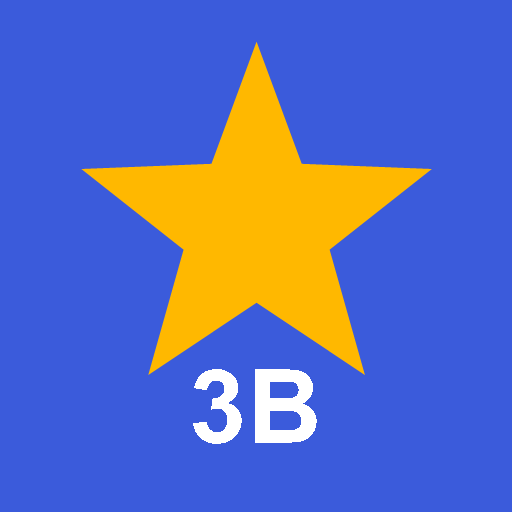
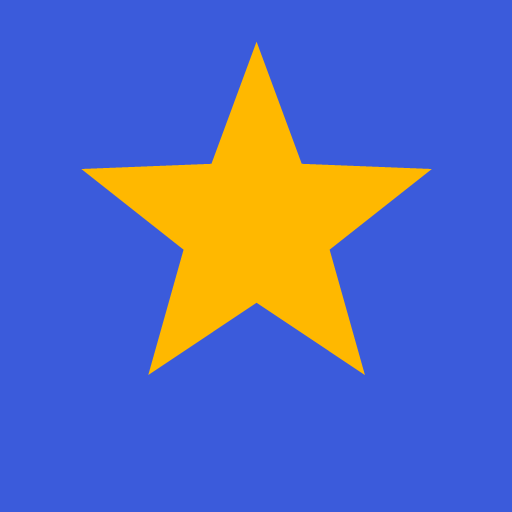
Big Quest Test V 0.148 (Betaversion): Probe-/Onboarding-Abschluss

Changed region(s): [[0.375, 0.7188, 0.625, 0.875]]

diff --git a/index.html b/index.html
@@ -215,6 +215,9 @@ button{font:inherit;color:inherit}
 .about-sec>summary::after,.psec>summary::after{content:"›";font-size:1.4rem;color:var(--muted);transition:transform .15s}
 .about-sec[open]>summary::after,.psec[open]>summary::after{transform:rotate(90deg)}
 .about-sec-body,.psec-body{padding:0 16px 12px}
+.release-group+.release-group{margin-top:12px}
+.release-group h3{margin:0 0 6px;font-size:1rem}
+.release-group ul{margin:0;padding-left:20px}
 .psecs{display:flex;flex-direction:column;gap:8px;margin:14px 0}
 .psheet{border:2px solid var(--line);border-radius:14px;margin:8px 0;background:var(--surface)}
 .psheet>summary{cursor:pointer;min-height:48px;padding:8px 12px;display:flex;flex-wrap:wrap;gap:6px 10px;align-items:center}
@@ -16650,13 +16653,15 @@ const ANM_QR_LESER = QRL_HINWEIS;
 async function anmKindBereit({ ablage, zugang, konto, now }) {
   if (!konto || konto.art !== 'child') return true;
   const k = verbindungen({ ablage, konto, now }).kinder.find((c) => c.id === konto.kennung);
-  if (!k) return false;
+  // After a restart the key copy may already know the child's anchor before the local connection logs are back.
+  const anker = k && k.anker ? k.anker : (konto.anker && konto.anker.role === 'parent' && konto.anker.pub ? konto.anker : null);
+  if (!anker) return false;
   const area = bereichName('kind:lern', konto.kennung);
   let st = null;
   try { st = JSON.parse(ablage.getItem(GERAETEABGLEICH_SPEICHER.staende) || '{}')[area]; } catch (e) { st = null; }
   const log = st && Array.isArray(st.log) ? st.log : [];
   try {
-    const zul = await zulassungAus(log, { area, anker: k.anker, now });
+    const zul = await zulassungAus(log, { area, anker, now });
     const s = await schluesselLesen(zugang, area, { ich: konto.kennung, meineSchluessel: konto.schluessel, mitglieder: aktiveMitglieder(zul) });
     return !!(s.aktuell && s.keys.has(s.aktuell));
   } catch (err) {
@@ -16735,7 +16740,9 @@ function anmPunkteErsetzen(text, ersatz) {
 }
 
 /* Set by the build (werkzeug/version.mjs) inside the encrypted vault; null when opened unbuilt. */
-const APP_VERSION={"n":152,"hash":"3472369","date":"07.11.2026 07:54","draft":false};
+const APP_VERSION={"n":153,"major":0,"minor":148,"patch":0,"kanal":"beta","hash":"0542cd4","date":"08.11.2026 11:43","draft":false};
+/* Set by the build (werkzeug/releases.mjs) inside the encrypted vault; null when opened unbuilt. */
+const APP_RELEASES=[{"version":"V 0.148 (Betaversion)","date":"08.11.2026 11:43","epics":[{"de":"Releasedokumentation ist jetzt direkt im Admin-Bereich der App sichtbar.","en":"Release notes are now visible directly in the admin area of the app."}],"stories":[{"de":"Der Admin sieht pro Fassung eine Übersicht nach Epic, User Story und Bugfix.","en":"The admin sees one overview per version, grouped by epic, user story and bugfix."}],"bugfixes":[{"de":"Fehlende Einträge zeigen einen ruhigen Hinweis statt einer kaputten Ansicht.","en":"Missing entries show a calm note instead of a broken screen."}]}];
 /* Set by the build from werkzeug/konten.json (S3 login); null = no accounts, app runs without login. */
 /* Accounts v2 (S11 Stufe 1): normAccounts and the rules who sees which child are in module src/module/rechte.mjs. */
 /* Stage 3b, task "Anmeldung im Testbau": the storage of the accounts (module konto). Set only for the test build -
@@ -19731,13 +19738,43 @@ function saveMySchoolDlg(){
   const s=$('#savedNote'); s.hidden=false;
   if(savedTimer) clearTimeout(savedTimer); savedTimer=setTimeout(hideSaved,4000);
 }
-/* Version (S7): the child sees only a small "v17" at the end of About; adults see number,
-   build time and commit, and can check on request whether a newer version is published. */
-const versionLabel = () => APP_VERSION ? 'v'+APP_VERSION.n+(APP_VERSION.draft?'-entwurf':'') : 'Entwicklungsstand';
+/* Version (S7): the visible version comes from the maintained release number (beta/final),
+   build time and commit stay as metadata for grown-ups and for live checks. */
+const versionModern=v=>!!v&&Number.isInteger(v.major)&&Number.isInteger(v.minor)&&Number.isInteger(v.patch)&&(v.kanal==='beta'||v.kanal==='final');
+const versionLegacy=v=>!!v&&Number.isInteger(v.n)&&v.n>=1;
+const versionRaw=v=>!v?'':versionModern(v)?`${v.major}.${v.minor}.${v.patch}${v.kanal==='beta'?'-beta':''}`:(versionLegacy(v)?`legacy-${v.n}`:'');
+const versionNumber=v=>versionModern(v)?(v.kanal==='beta'&&v.patch===0?`${v.major}.${v.minor}`:`${v.major}.${v.minor}.${v.patch}`):(versionLegacy(v)?String(v.n):'');
+const versionLabel=(v=APP_VERSION,de=PL()==='de')=>!v?'Entwicklungsstand':versionModern(v)?`V ${versionNumber(v)}${v.kanal==='beta'?(de?' (Betaversion)':' (Beta version)'):''}${v.draft?(de?' - Entwurf':' - draft'):''}`:(versionLegacy(v)?`v${v.n}${v.draft?(de?'-entwurf':'-draft'):''}`:'Entwicklungsstand');
+const versionCompare=(a,b)=>{ if(versionModern(a)&&versionModern(b)){ for(const [x,y] of [[a.major,b.major],[a.minor,b.minor],[a.patch,b.patch],[(a.kanal==='final'?1:0),(b.kanal==='final'?1:0)]]){ if(x<y) return -1; if(x>y) return 1; } return 0; } if(versionLegacy(a)&&versionLegacy(b)){ if(a.n<b.n) return -1; if(a.n>b.n) return 1; return 0; } return null; };
+const versionSameRelease=(a,b)=>!!a&&!!b&&versionCompare(a,b)===0;
+const versionSameBuild=(a,b)=>versionSameRelease(a,b)&&a.hash===b.hash&&a.date===b.date&&!!a.draft===!!b.draft;
+const versionHasNewerBuild=(a,b)=>{ const cmp=versionCompare(a,b); return cmp!==null&&!!a&&!!b&&(cmp>0||(cmp===0&&a.hash&&b.hash&&a.hash!==b.hash)); };
+const versionKey=v=>`${versionRaw(v)}${v&&v.hash?'-'+v.hash:''}`;
 const appVersionLine = () => `<p class="small app-version">${esc(versionLabel())}</p>`;
+const releaseList = () => Array.isArray(APP_RELEASES) ? APP_RELEASES : [];
+const releaseText = (v, de) => !v || typeof v!=='object' ? '' : String(de ? (v.de||v.en||'') : (v.en||v.de||'')).trim();
+const releaseItems = (list, de) => (Array.isArray(list) ? list : []).map(v=>releaseText(v, de)).filter(Boolean);
+function releaseGroupHTML(title, items){
+  return items.length ? `<div class="release-group"><h3>${title}</h3><ul>${items.map(x=>`<li>${esc(x)}</li>`).join('')}</ul></div>` : '';
+}
+function releaseEntryHTML(entry, de){
+  const version=entry && entry.version ? String(entry.version) : versionLabel(), date=entry && entry.date ? String(entry.date) : '';
+  const head=[version, date ? (de?'gebaut ':'built ')+date : ''].filter(Boolean).join(' · ');
+  const body=releaseGroupHTML('Epic', releaseItems(entry && entry.epics, de))
+    +releaseGroupHTML('User Story', releaseItems(entry && entry.stories, de))
+    +releaseGroupHTML('Bugfix', releaseItems(entry && entry.bugfixes, de));
+  return `<details class="about-sec release-entry"><summary>${esc(head)}</summary><div class="about-sec-body">${body||`<p class="small">${de?'Keine Einträge.':'No entries.'}</p>`}</div></details>`;
+}
+function releaseAdminHTML(){
+  if(!(adultUser && adultUser.admin)) return '';
+  const de=PL()==='de', list=releaseList();
+  return `<div id="releaseDocs"><h2>${de?'Releasedokumentation':'Release notes'}</h2><p class="small">${de?'Nur für den Admin sichtbar. Kurz notiert ist, was sich in dieser Fassung für die Nutzung geändert hat.':'Visible only to the admin. It briefly notes what changed for day-to-day use in this version.'}</p>`
+    +(list.length ? `<div class="about-menu">${list.map(entry=>releaseEntryHTML(entry, de)).join('')}</div>` : `<p class="small">${de?'Noch keine Releaseeinträge hinterlegt.':'No release entries have been added yet.'}</p>`)
+    +`</div>`;
+}
 function versionAdminHTML(){
   const v=APP_VERSION, de=PL()==='de';
-  return `<h2>${de?'App-Version':'App version'}</h2><p id="versionInfo">${v?`<b>${esc(versionLabel())}</b> · ${de?'gebaut':'built'} ${esc(v.date)} · ${esc(v.hash)}`:(de?'Entwicklungsstand (nicht gebaut)':'Development build (not built)')}</p><p><button class="btn small" id="checkUpdate" type="button">${de?'Nach neuer Version suchen':'Check for a new version'}</button></p><p id="updateMessage" class="small" role="status"></p>`;
+  return `<h2>${de?'App-Version':'App version'}</h2><p id="versionInfo">${v?`<b>${esc(versionLabel(v,de))}</b> · ${de?'gebaut':'built'} ${esc(v.date)} · ${esc(v.hash)}`:(de?'Entwicklungsstand (nicht gebaut)':'Development build (not built)')}</p><p><button class="btn small" id="checkUpdate" type="button">${de?'Nach neuer Version suchen':'Check for a new version'}</button></p><p id="updateMessage" class="small" role="status"></p>`;
 }
 async function publishedVersion(){
   /* Test instance (stage 3c): the published page is the app itself in plain text - no key, no vault. */
@@ -19756,10 +19793,10 @@ async function checkForUpdate(){
   updateCheckedAt=Date.now();
   try{
     const p=await publishedVersion();
-    if(!p || p.n<=APP_VERSION.n) return;
+    if(!p || !versionHasNewerBuild(p,APP_VERSION)) return;
     let tried=null; try{ tried=sessionStorage.getItem('bqtUpdateTo'); }catch(e){}
-    if(tried && +tried>=p.n) return;                     // already tried this session: no reload loop
-    pendingUpdate=p.n;
+    if(tried && tried===versionKey(p)) return;          // already tried this session: no reload loop
+    pendingUpdate=versionKey(p);
     if(['home','login','subject'].includes(state.screen)) applyUpdate();
   }catch(e){ /* offline or not logged in: try again later */ }
 }
@@ -19768,7 +19805,7 @@ function applyUpdate(){
   const n=pendingUpdate; pendingUpdate=null;
   try{ sessionStorage.setItem('bqtUpdateTo',String(n)); }catch(e){}
   const note=$('#homeNote'); if(note && state.screen==='home'){ note.hidden=false; note.textContent='✨ New version – updating …'; }
-  setTimeout(()=>location.replace(location.pathname+'?v='+n),400);
+  setTimeout(()=>location.replace(location.pathname+'?v='+encodeURIComponent(n)),400);
 }
 function bindVersionAdmin(){
   const b=$('#checkUpdate'); if(!b) return;
@@ -19776,8 +19813,8 @@ function bindVersionAdmin(){
     const msg=$('#updateMessage'), de=PL()==='de'; msg.textContent=de?'Prüfe …':'Checking …';
     try{
       const p=await publishedVersion(), v=APP_VERSION;
-      if(p && v && p.n===v.n && p.hash===v.hash && p.date===v.date) msg.textContent=de?'Aktuell – auf diesem Gerät läuft die neueste Version.':'Up to date – this device runs the latest version.';
-      else if(p) msg.textContent=de?'Neuer Stand v'+p.n+' verfügbar – App schließen und neu öffnen.':'Version v'+p.n+' is available – close the app completely and reopen it.';
+      if(versionSameBuild(p,v)) msg.textContent=de?'Aktuell – auf diesem Gerät läuft die neueste Version.':'Up to date – this device runs the latest version.';
+      else if(p) msg.textContent=de?`Neuer Stand ${versionLabel(p,true)} verfügbar – App schließen und neu öffnen.`:`Version ${versionLabel(p,false)} is available – close the app completely and reopen it.`;
       else msg.textContent=de?'Die veröffentlichte Seite nennt keine Version.':'The published page shows no version.';
     }catch(e){ msg.textContent=de?'Prüfung nicht möglich (keine Verbindung oder auf diesem Gerät nicht angemeldet).':'Check not possible (no connection, or not signed in on this device).'; }
   });
@@ -20730,7 +20767,7 @@ function aboutAppHTML(){
     // third-party code in the test build (task "Erstanmeldung per QR-Code"): the QR reader of "Connect this device"
     +(KONTO_UI && typeof ANM_QR_LESER!=='undefined'?sec(de?'Fremde Programmteile':'Third-party components', `<p>${de?'Den QR-Code beim Verbinden eines Geräts liest':'The QR code when connecting a device is read by'} <b>${esc(ANM_QR_LESER.name)} ${esc(ANM_QR_LESER.version)}</b> (Cosmo Wolfe ${de?'und Mitwirkende':'and contributors'}) – ${esc(ANM_QR_LESER.lizenz)}. ${de?'Unverändert in die App eingebettet; das Kamerabild bleibt auf dem Gerät, kein fremder Server.':'Embedded in the app unchanged; the camera picture stays on the device, no third-party server.'} <a href="${esc(ANM_QR_LESER.url)}" target="_blank" rel="noopener">${esc(ANM_QR_LESER.url)}</a> · <a href="https://www.apache.org/licenses/LICENSE-2.0" target="_blank" rel="noopener">Apache License 2.0</a></p>`, 'lizenzen'):'')
     +sec(de?'Impressum':'Legal notice', `<p>${de?'Wird ergänzt.':'To be added.'}</p>`, 'imprint')
-    +`</div>`+versionAdminHTML();
+    +`</div>`+versionAdminHTML()+releaseAdminHTML();
 }
 /* accounts in the storage (family build): export and deletion in plain words; removing old versions from GitHub's
    history is the admin's job by hand (guide in the source repository, docs/endgueltig-loeschen.md) */
